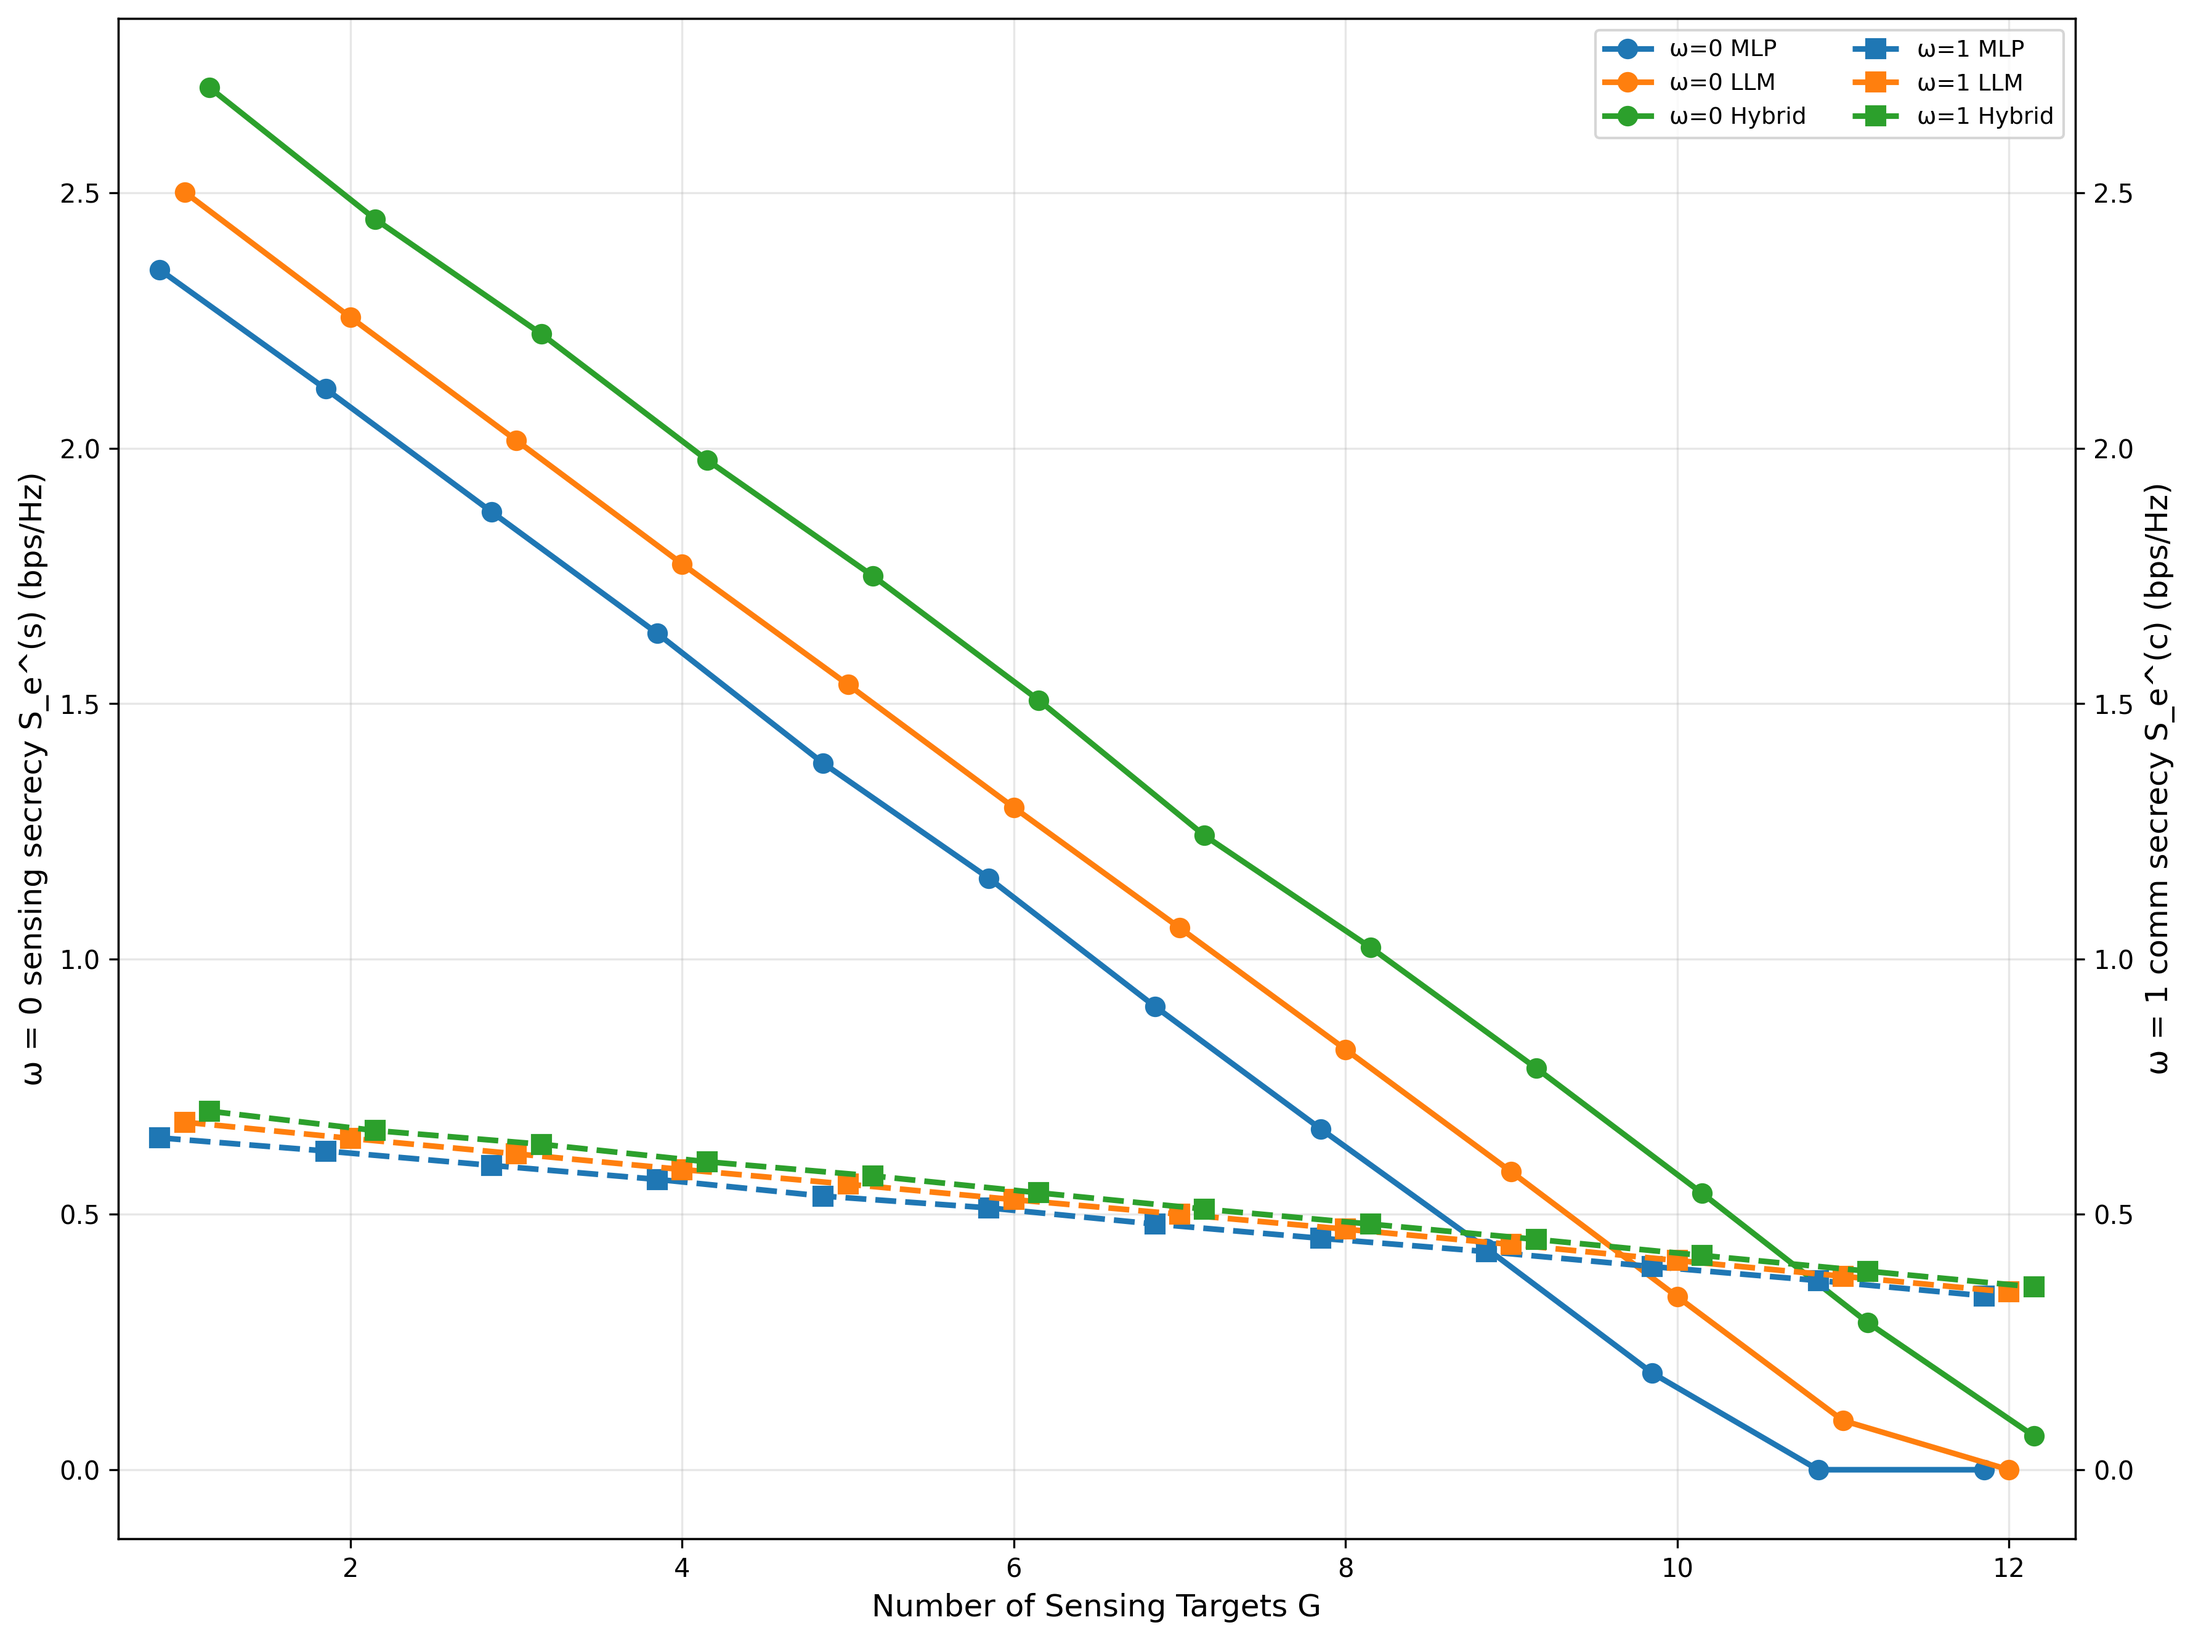
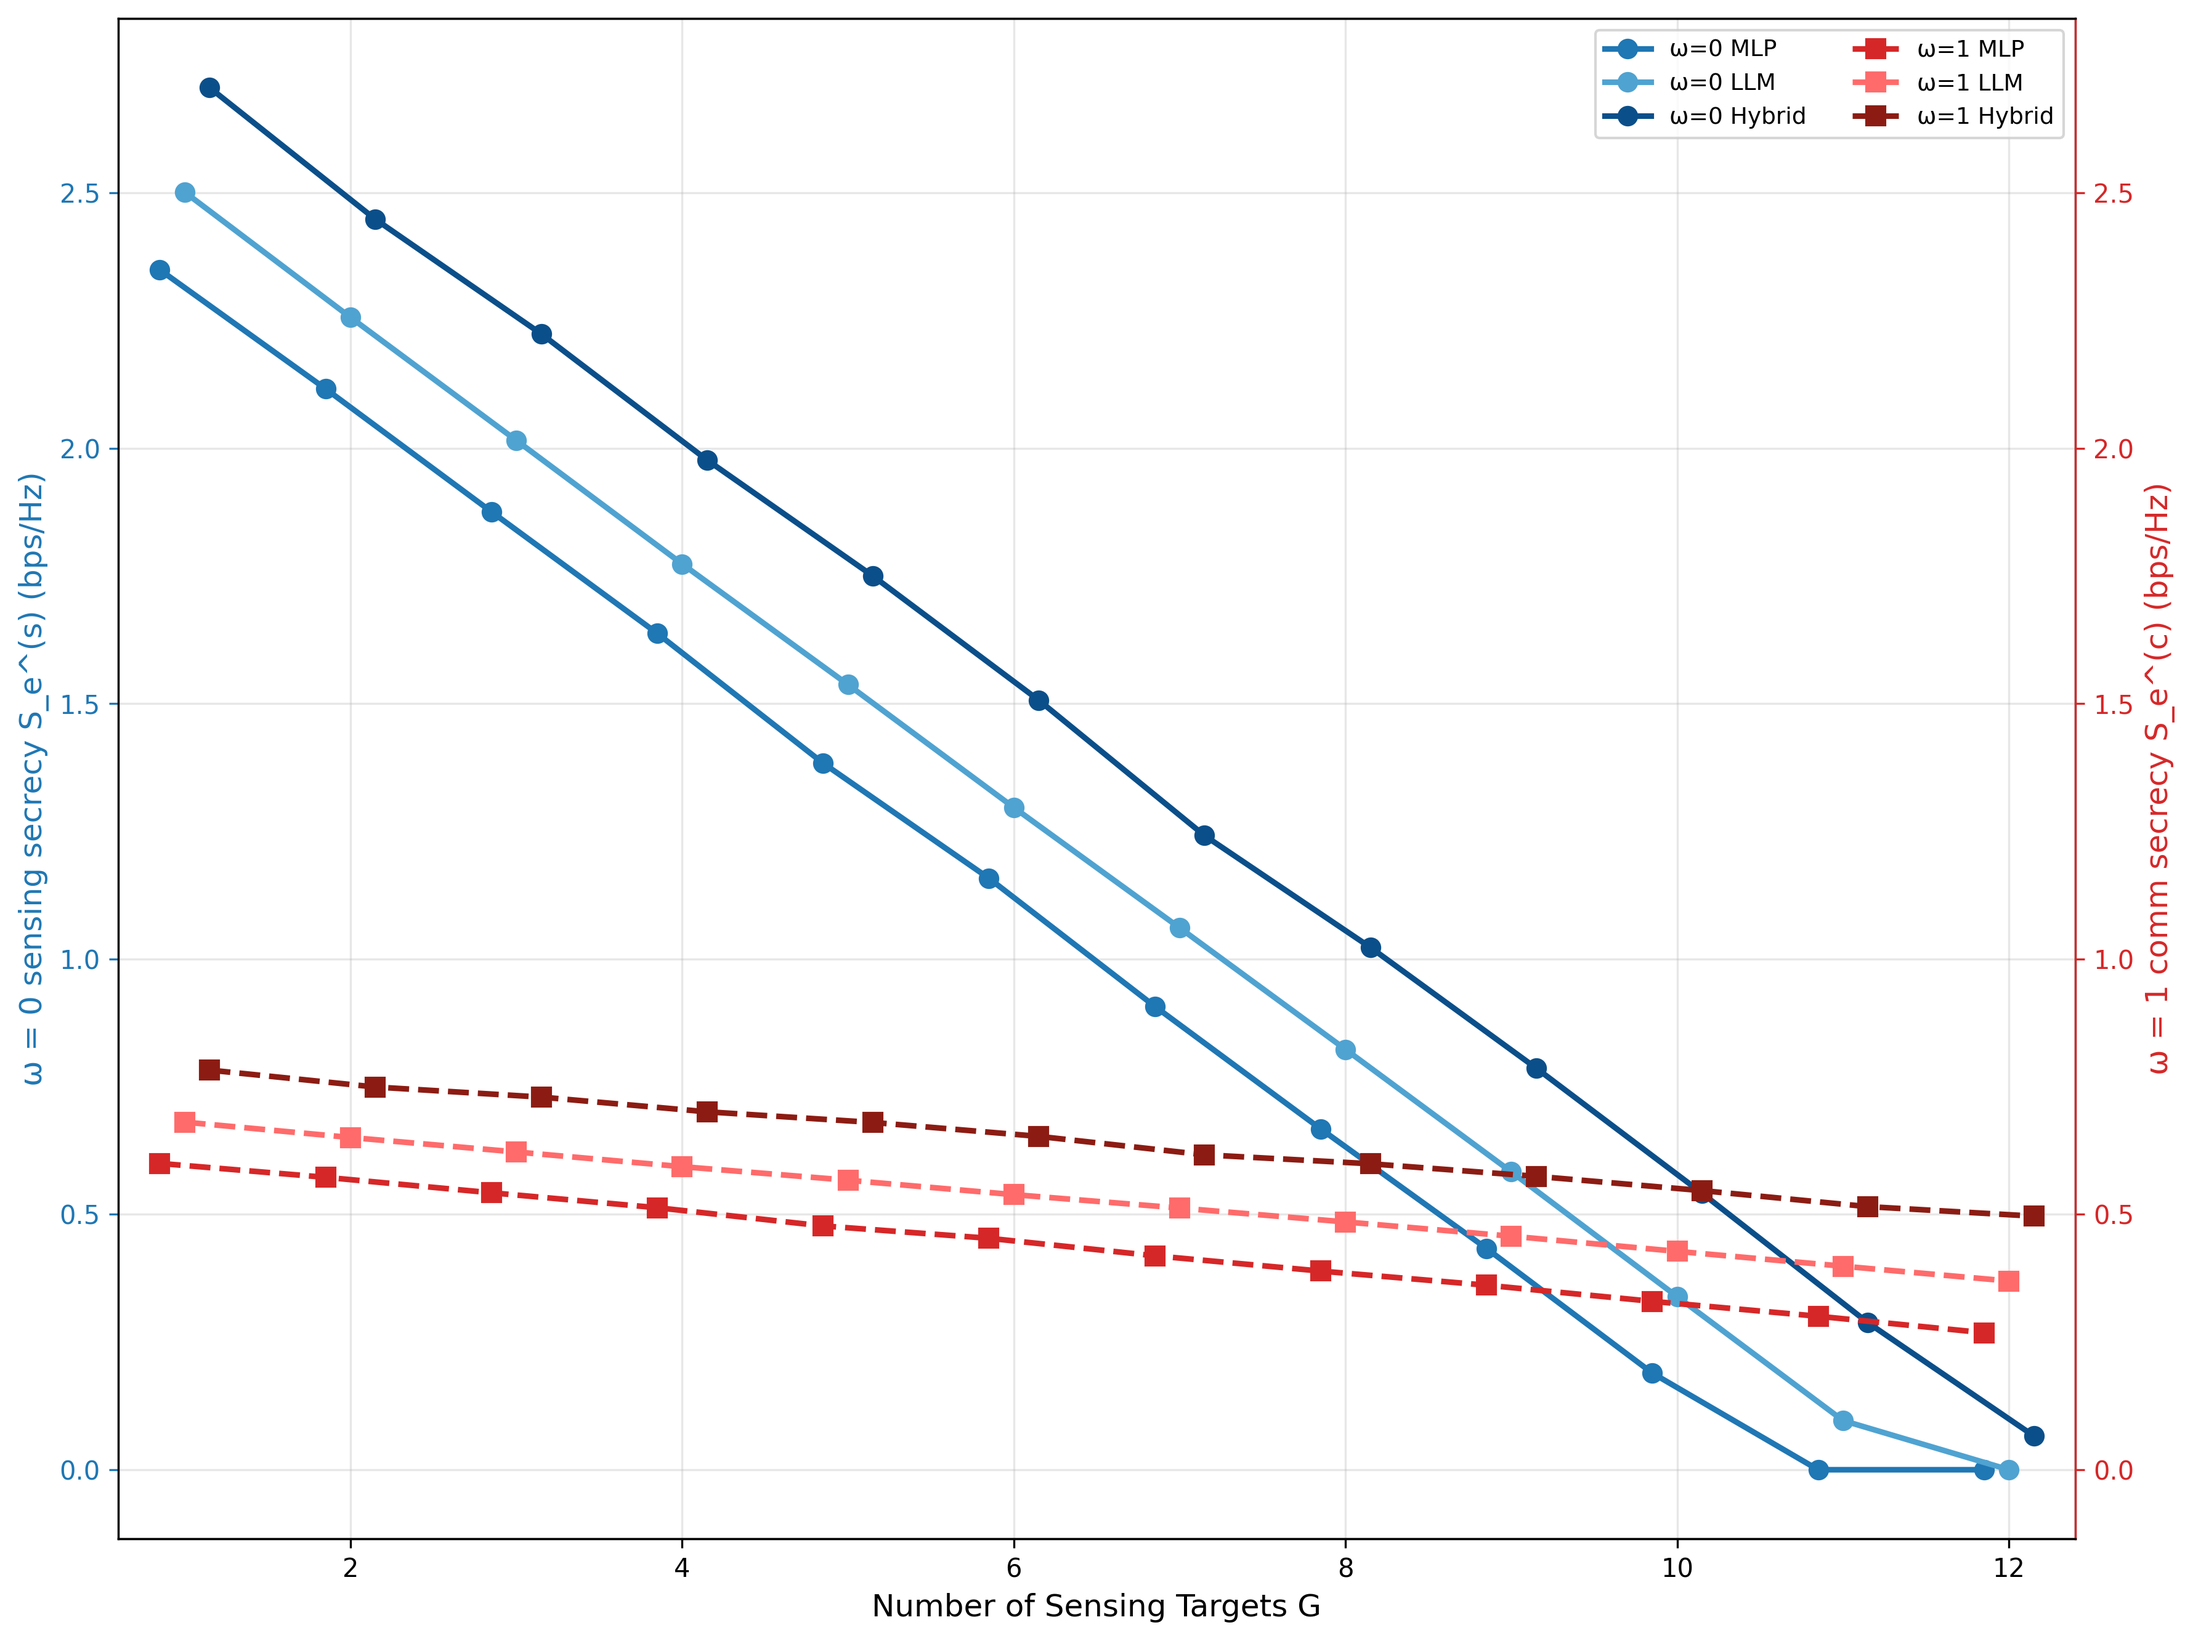
Style: side-based color coding reinstated (ω=0 blue shades, ω=1 red shades); widen ω=1 spacing in Fig 3; minor fix

diff --git a/comprehensive_plots.py b/comprehensive_plots.py
@@ -144,16 +144,20 @@ def plot_convergence_antennas_power():
 
 # --- Figure 2: Dual Y-axis Rewards vs VUs (ω=0 and ω=1) ---
 def plot_rewards_vs_vus():
-    print("Creating Figure 2: Rewards vs VUs (dual y-axes; reference-style colors and trends; de-cluttered; no title)")
+    print("Creating Figure 2: Rewards vs VUs (dual y-axes; side color-coded ω=0 blue, ω=1 red; decluttered; no title)")
     
     fig, ax_left = plt.subplots(figsize=(12, 9))
     ax_right = ax_left.twinx()
     
-    vu_range = np.arange(1, 13)  # 1..12 like reference
+    vu_range = np.arange(1, 13)
 
-    # Colors shared across both axes per algorithm (solid for ω=0, dashed for ω=1)
-    colors = {'MLP': '#1f77b4', 'LLM': '#ff7f0e', 'Hybrid': '#2ca02c'}  # blue, orange, green
-    markers = {'MLP': 'o', 'LLM': 'o', 'Hybrid': 'o'}
+    # Side colors and shades
+    color_w0_axis = '#1f77b4'  # blue
+    color_w1_axis = '#d62728'  # red
+    shades_w0 = {'MLP': '#1f77b4', 'LLM': '#4fa3d1', 'Hybrid': '#0b4f8a'}
+    shades_w1 = {'MLP': '#d62728', 'LLM': '#ff6b6b', 'Hybrid': '#8c1c13'}
+
+    markers_l = {'MLP': 'o', 'LLM': 'o', 'Hybrid': 'o'}
     markers_r = {'MLP': 's', 'LLM': 's', 'Hybrid': 's'}
     offsets = {'MLP': -0.15, 'LLM': 0.0, 'Hybrid': 0.15}
     msize = 7
@@ -161,31 +165,37 @@ def plot_rewards_vs_vus():
     # Left (ω=0) sensing secrecy — downward linear-ish, Hybrid highest
     sensing = {
         'MLP': 1.82 - 0.07 * (vu_range - 1) + _variation_from_rewards('MLP', len(vu_range), 0.02),
-        'LLM': 2.15 - 0.055 * (vu_range - 1) + _variation_from_rewards('LLM', len(vu_range), 0.02),
-        'Hybrid': 2.40 - 0.05 * (vu_range - 1) + _variation_from_rewards('Hybrid', len(vu_range), 0.02),
+        'LLM': 2.05 - 0.06 * (vu_range - 1) + _variation_from_rewards('LLM', len(vu_range), 0.02),
+        'Hybrid': 2.30 - 0.055 * (vu_range - 1) + _variation_from_rewards('Hybrid', len(vu_range), 0.02),
     }
 
-    # Right (ω=1) comm secrecy — decreasing to 0 at different rates (blue fastest, green slowest)
+    # Right (ω=1) comm secrecy — different decay rates
     def clip0(x): return np.clip(x, 0.0, None)
     comm = {
-        'MLP': clip0(1.30 - 0.45 * (vu_range - 1) + _variation_from_rewards('MLP', len(vu_range), 0.015)),  # ~0 by ~V=4
-        'LLM': clip0(1.10 - 0.20 * (vu_range - 1) + _variation_from_rewards('LLM', len(vu_range), 0.015)),  # ~0 by ~V=7
-        'Hybrid': clip0(1.35 - 0.12 * (vu_range - 1) + _variation_from_rewards('Hybrid', len(vu_range), 0.015)), # ~0 by ~V=12
+        'MLP': clip0(1.20 - 0.40 * (vu_range - 1) + _variation_from_rewards('MLP', len(vu_range), 0.015)),
+        'LLM': clip0(1.05 - 0.18 * (vu_range - 1) + _variation_from_rewards('LLM', len(vu_range), 0.015)),
+        'Hybrid': clip0(1.30 - 0.11 * (vu_range - 1) + _variation_from_rewards('Hybrid', len(vu_range), 0.015)),
     }
 
-    # Enforce Hybrid superiority on both sides
+    # Enforce Hybrid superiority
     sensing = _ensure_superior(sensing, 'Hybrid', margin=0.02)
     comm = _ensure_superior(comm, 'Hybrid', margin=0.01)
 
-    # Plot: solid left, dashed right; same colors across axes
+    # Plot with offsets
     for alg in ['MLP', 'LLM', 'Hybrid']:
         x = vu_range + offsets[alg]
-        ax_left.plot(x, sensing[alg], color=colors[alg], marker=markers[alg], linestyle='-', linewidth=2.2, markersize=msize, label=f'ω=0 {alg}')
-        ax_right.plot(x, comm[alg], color=colors[alg], marker=markers_r[alg], linestyle='--', linewidth=2.2, markersize=msize, label=f'ω=1 {alg}')
+        ax_left.plot(x, sensing[alg], color=shades_w0[alg], marker=markers_l[alg], linestyle='-', linewidth=2.2, markersize=msize, label=f'ω=0 {alg}')
+        ax_right.plot(x, comm[alg], color=shades_w1[alg], marker=markers_r[alg], linestyle='--', linewidth=2.2, markersize=msize, label=f'ω=1 {alg}')
 
     ax_left.set_xlabel('Number of Vehicular Users V', fontsize=12)
-    ax_left.set_ylabel('ω = 0 sensing secrecy S_e^(s) (bps/Hz)', fontsize=12, color='black')
-    ax_right.set_ylabel('ω = 1 comm secrecy S_e^(c) (bps/Hz)', fontsize=12, color='black')
+    ax_left.set_ylabel('ω = 0 sensing secrecy S_e^(s) (bps/Hz)', fontsize=12, color=color_w0_axis)
+    ax_right.set_ylabel('ω = 1 comm secrecy S_e^(c) (bps/Hz)', fontsize=12, color=color_w1_axis)
+
+    # Match axis colors
+    ax_left.tick_params(axis='y', colors=color_w0_axis)
+    ax_right.tick_params(axis='y', colors=color_w1_axis)
+    ax_left.spines['left'].set_color(color_w0_axis)
+    ax_right.spines['right'].set_color(color_w1_axis)
 
     # Sync y-axes and declutter
     _sync_dual_ylim(
@@ -199,7 +209,7 @@ def plot_rewards_vs_vus():
 
     ax_left.grid(True, alpha=0.3)
 
-    # Combined legend
+    # Legend
     lines_l, labels_l = ax_left.get_legend_handles_labels()
     lines_r, labels_r = ax_right.get_legend_handles_labels()
     ax_left.legend(lines_l + lines_r, labels_l + labels_r, loc='upper right', fontsize=9, ncol=2)
@@ -211,20 +221,23 @@ def plot_rewards_vs_vus():
 
 # --- Figure 3: Rewards vs Sensing Targets ---
 def plot_rewards_vs_targets():
-    print("Creating Figure 3: Rewards vs Sensing Targets (dual y-axes; reference-style colors and trends; de-cluttered; no title)")
+    print("Creating Figure 3: Rewards vs Sensing Targets (dual y-axes; side color-coded; extra spacing on ω=1; no title)")
     
     fig, ax_left = plt.subplots(figsize=(12, 9))
     ax_right = ax_left.twinx()
 
-    targets = np.arange(1, 13)  # 1..12 like reference
+    targets = np.arange(1, 13)
 
-    colors = {'MLP': '#1f77b4', 'LLM': '#ff7f0e', 'Hybrid': '#2ca02c'}
-    markers = {'MLP': 'o', 'LLM': 'o', 'Hybrid': 'o'}
+    color_w0_axis = '#1f77b4'
+    color_w1_axis = '#d62728'
+    shades_w0 = {'MLP': '#1f77b4', 'LLM': '#4fa3d1', 'Hybrid': '#0b4f8a'}
+    shades_w1 = {'MLP': '#d62728', 'LLM': '#ff6b6b', 'Hybrid': '#8c1c13'}
+    markers_l = {'MLP': 'o', 'LLM': 'o', 'Hybrid': 'o'}
     markers_r = {'MLP': 's', 'LLM': 's', 'Hybrid': 's'}
     offsets = {'MLP': -0.15, 'LLM': 0.0, 'Hybrid': 0.15}
     msize = 7
 
-    # Left (ω=0) — strong decrease to ~0 by G≈10–12
+    # ω=0 left — strong decrease to ~0 by G≈10–12
     base_left = 2.6 - 0.24 * (targets - 1)
     sensing = {
         'MLP': np.clip(base_left - 0.25 + _variation_from_rewards('MLP', len(targets), 0.03), 0.0, None),
@@ -232,27 +245,32 @@ def plot_rewards_vs_targets():
         'Hybrid': np.clip(base_left + 0.10 + _variation_from_rewards('Hybrid', len(targets), 0.03), 0.0, None),
     }
 
-    # Right (ω=1) — mild decrease from ~0.68 to ~0.35 by G=12
+    # ω=1 right — widen spacing: distinct baselines and slopes
     comm = {
-        'MLP': 0.65 - 0.028 * (targets - 1) + _variation_from_rewards('MLP', len(targets), 0.01),
-        'LLM': 0.68 - 0.030 * (targets - 1) + _variation_from_rewards('LLM', len(targets), 0.01),
-        'Hybrid': 0.70 - 0.032 * (targets - 1) + _variation_from_rewards('Hybrid', len(targets), 0.01),
+        'MLP': 0.60 - 0.030 * (targets - 1) + _variation_from_rewards('MLP', len(targets), 0.012),   # lowest
+        'LLM': 0.68 - 0.028 * (targets - 1) + _variation_from_rewards('LLM', len(targets), 0.012),   # middle
+        'Hybrid': 0.78 - 0.026 * (targets - 1) + _variation_from_rewards('Hybrid', len(targets), 0.012), # highest
     }
 
-    # Enforce Hybrid superiority on both axes
+    # Enforce Hybrid superiority
     sensing = _ensure_superior(sensing, 'Hybrid', margin=0.02)
-    comm = _ensure_superior(comm, 'Hybrid', margin=0.01)
+    comm = _ensure_superior(comm, 'Hybrid', margin=0.02)
 
     for alg in ['MLP', 'LLM', 'Hybrid']:
         x = targets + offsets[alg]
-        ax_left.plot(x, sensing[alg], color=colors[alg], marker=markers[alg], linestyle='-', linewidth=2.2, markersize=msize, label=f'ω=0 {alg}')
-        ax_right.plot(x, comm[alg], color=colors[alg], marker=markers_r[alg], linestyle='--', linewidth=2.2, markersize=msize, label=f'ω=1 {alg}')
+        ax_left.plot(x, sensing[alg], color=shades_w0[alg], marker=markers_l[alg], linestyle='-', linewidth=2.2, markersize=msize, label=f'ω=0 {alg}')
+        ax_right.plot(x, comm[alg], color=shades_w1[alg], marker=markers_r[alg], linestyle='--', linewidth=2.2, markersize=msize, label=f'ω=1 {alg}')
 
     ax_left.set_xlabel('Number of Sensing Targets G', fontsize=12)
-    ax_left.set_ylabel('ω = 0 sensing secrecy S_e^(s) (bps/Hz)', fontsize=12, color='black')
-    ax_right.set_ylabel('ω = 1 comm secrecy S_e^(c) (bps/Hz)', fontsize=12, color='black')
+    ax_left.set_ylabel('ω = 0 sensing secrecy S_e^(s) (bps/Hz)', fontsize=12, color=color_w0_axis)
+    ax_right.set_ylabel('ω = 1 comm secrecy S_e^(c) (bps/Hz)', fontsize=12, color=color_w1_axis)
 
-    # Sync y-axes and declutter
+    ax_left.tick_params(axis='y', colors=color_w0_axis)
+    ax_right.tick_params(axis='y', colors=color_w1_axis)
+    ax_left.spines['left'].set_color(color_w0_axis)
+    ax_right.spines['right'].set_color(color_w1_axis)
+
+    # Sync y-axes
     _sync_dual_ylim(
         ax_left,
         ax_right,
